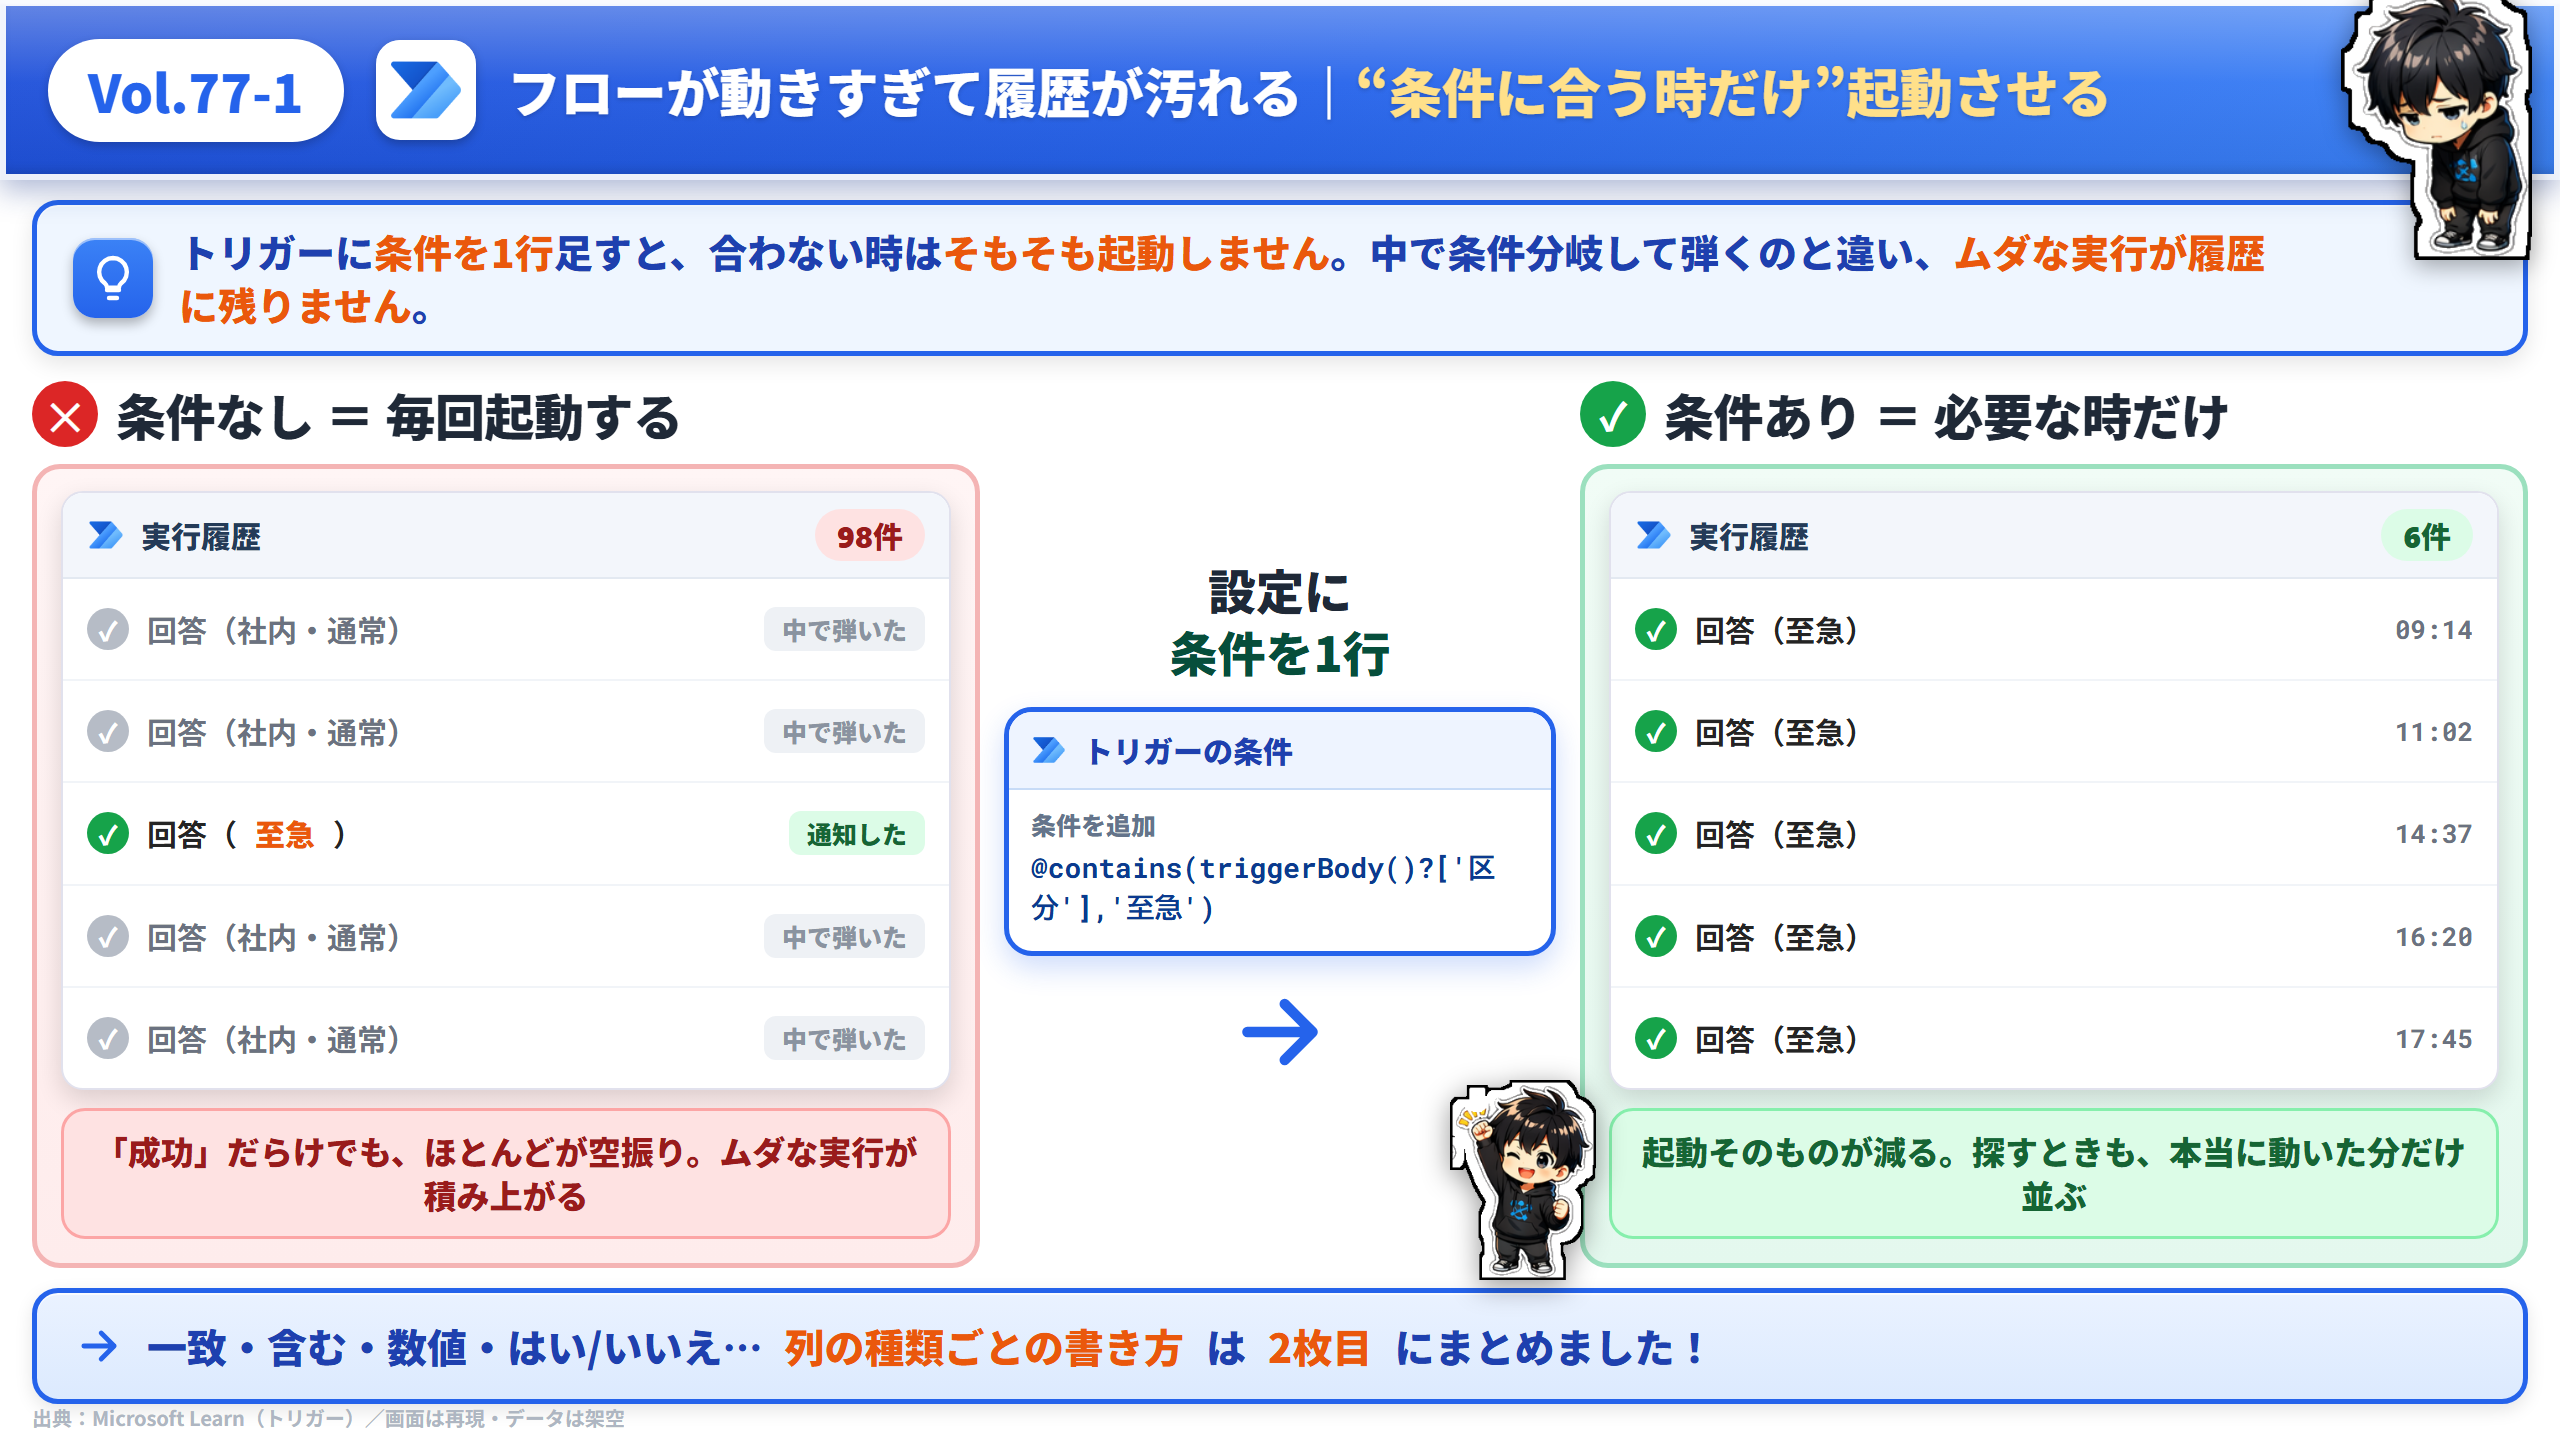
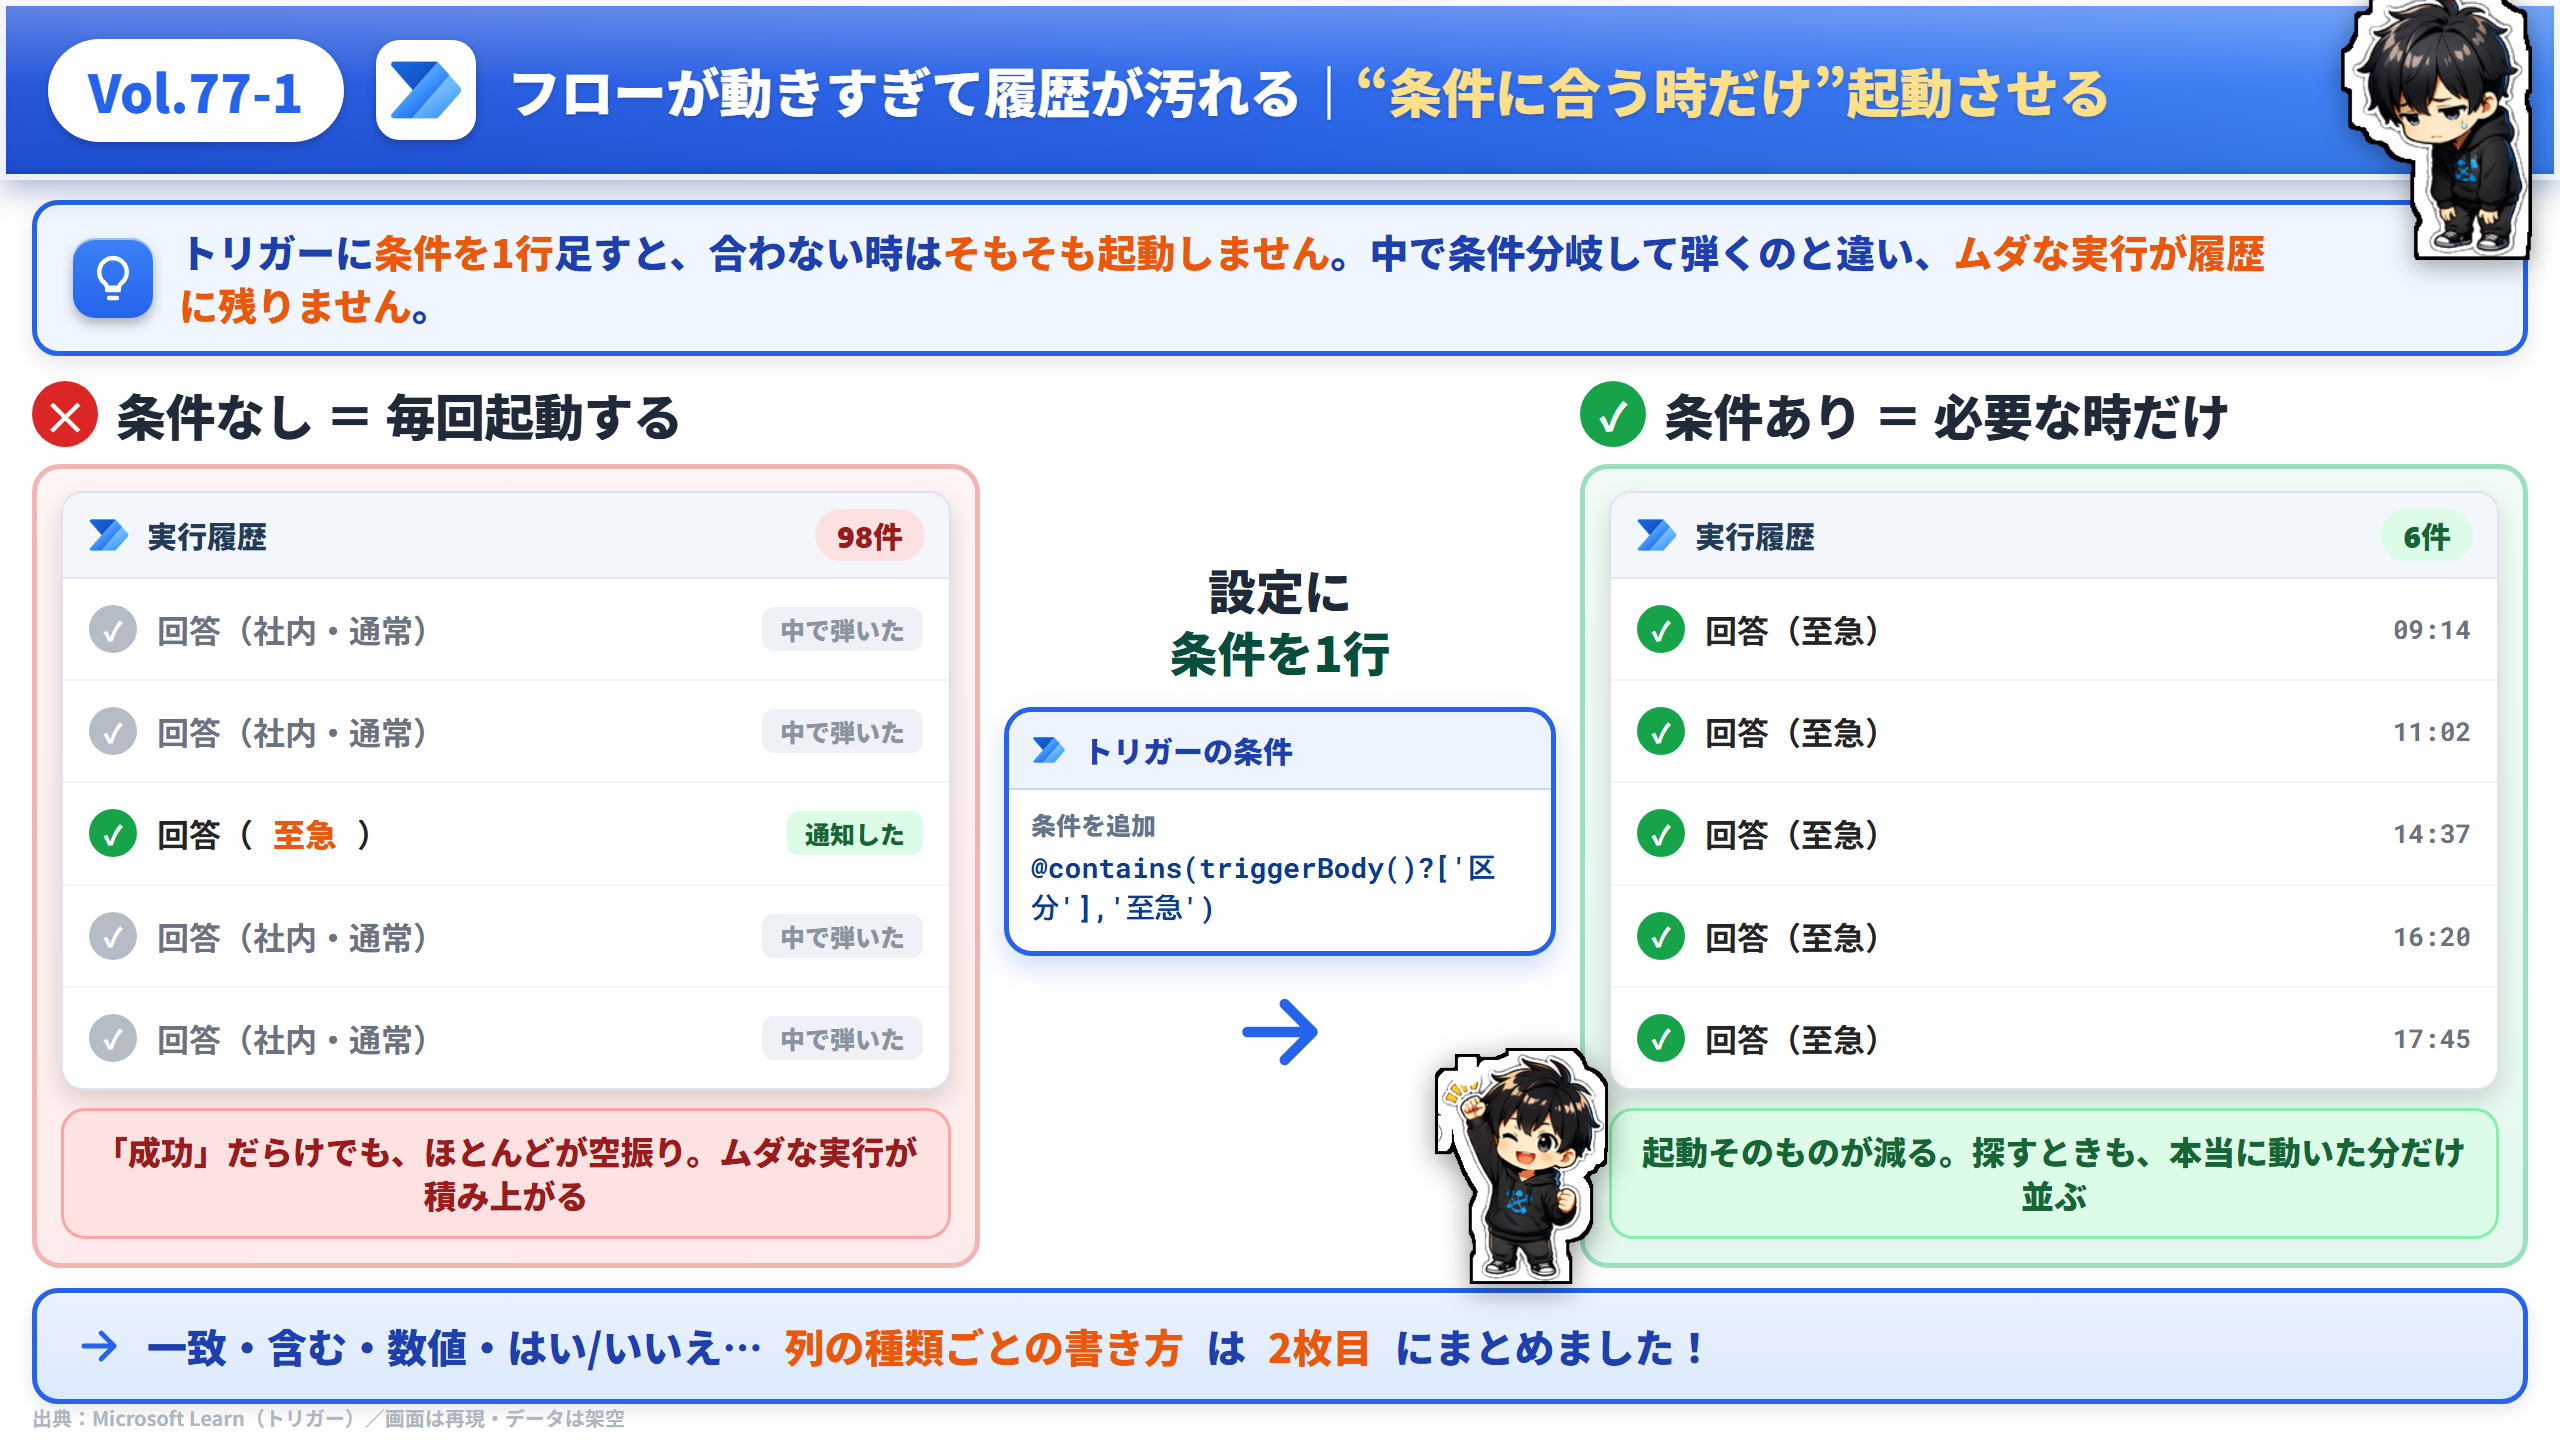
Vol.77 のマスコット/アイコンを品質基準まで拡大
- 1枚目＝中央マスコット 100→118px、実行履歴のアイコン19→22px・文字15→16px
- 2枚目＝マスコットが無く右カラムが寂しかったので ANDカードに guts 114px を追加

diff --git a/assets/x/html/vol-77/index.html b/assets/x/html/vol-77/index.html
@@ -44,14 +44,14 @@
   /* 実行履歴モック */
   .run{flex:1;background:#fff;border:1px solid #E1E1ED;border-radius:11px;box-shadow:0 5px 13px rgba(0,0,0,.14);overflow:hidden;font-family:'Segoe UI','Noto Sans JP',sans-serif;display:flex;flex-direction:column;min-height:0;}
   .run-h{flex:0 0 auto;display:flex;align-items:center;gap:8px;padding:8px 12px;background:#F3F6FB;border-bottom:1px solid #E3E9F1;}
-  .run-h img{width:19px;height:19px;object-fit:contain;}
+  .run-h img{width:22px;height:22px;object-fit:contain;}
   .run-h span{font-weight:800;font-size:15px;color:#243B58;}
   .run-h .cnt{margin-left:auto;font-weight:900;font-size:15px;border-radius:999px;padding:2px 11px;}
   .run-h .cnt.bad{background:#FEE2E2;color:var(--red-dark);}
   .run-h .cnt.good{background:#DCFCE7;color:#166534;}
-  .rrow{flex:1;display:flex;align-items:center;gap:9px;padding:0 12px;border-bottom:1px solid #F1F4F8;min-height:0;font-size:15px;font-weight:700;color:#242424;}
+  .rrow{flex:1;display:flex;align-items:center;gap:10px;padding:0 13px;border-bottom:1px solid #F1F4F8;min-height:0;font-size:16px;font-weight:700;color:#242424;}
   .rrow:last-child{border-bottom:none;}
-  .rrow .mk{flex:0 0 auto;width:21px;height:21px;border-radius:50%;display:flex;align-items:center;justify-content:center;font-weight:900;font-size:13px;color:#fff;}
+  .rrow .mk{flex:0 0 auto;width:24px;height:24px;border-radius:50%;display:flex;align-items:center;justify-content:center;font-weight:900;font-size:13px;color:#fff;}
   .rrow.s .mk{background:var(--green);}
   .rrow.waste{color:var(--weak);}
   .rrow.waste .mk{background:#B6BCC6;}
@@ -74,7 +74,7 @@
   .setbox .sl{font-size:12.5px;font-weight:800;color:#64748B;padding:8px 11px 3px;}
   .setbox .sv{font-family:'Roboto Mono',monospace;font-size:14px;font-weight:700;color:#0B3A8F;padding:0 11px 11px;word-break:break-all;line-height:1.45;}
   .bigarrow{width:56px;height:56px;color:var(--blue);}
-  .mzmascot{position:absolute;right:-8px;bottom:-6px;height:100px;z-index:30;filter:drop-shadow(0 3px 7px rgba(0,0,0,.4));}
+  .mzmascot{position:absolute;right:-14px;bottom:-8px;height:118px;z-index:30;filter:drop-shadow(0 3px 7px rgba(0,0,0,.4));}
 
   .next{flex:0 0 auto;margin:10px 16px 18px;background:linear-gradient(180deg,#EAF2FF,#DCEAFE);border:2.5px solid var(--blue);border-radius:13px;padding:12px 18px;display:flex;align-items:center;gap:11px;font-weight:900;font-size:20px;color:var(--blue-dark);box-shadow:0 3px 9px rgba(0,0,0,.10),inset 0 1px 0 rgba(255,255,255,.7);}
   .next .na{flex:0 0 auto;width:26px;height:26px;color:var(--blue);}

diff --git a/assets/x/html/vol-77b/index.html b/assets/x/html/vol-77b/index.html
@@ -46,7 +46,7 @@
   .q.o{border-left-color:var(--orange);} .q.o .val{color:#9A3412;}
   .q.g{border-left-color:var(--green);} .q.g .val{color:var(--green-dark);}
 
-  .and{flex:1;background:#fff;border:1px solid #D7DEE8;border-radius:12px;box-shadow:0 6px 15px rgba(0,0,0,.14);overflow:hidden;font-family:'Segoe UI','Noto Sans JP',sans-serif;display:flex;flex-direction:column;min-height:0;}
+  .and{flex:1;background:#fff;border:1px solid #D7DEE8;border-radius:12px;box-shadow:0 6px 15px rgba(0,0,0,.14);overflow:visible;font-family:'Segoe UI','Noto Sans JP',sans-serif;display:flex;flex-direction:column;min-height:0;position:relative;}
   .and-h{flex:0 0 auto;display:flex;align-items:center;gap:9px;padding:9px 12px;background:#F3F6FB;border-bottom:1px solid #E3E9F1;}
   .and-h img{width:19px;height:19px;object-fit:contain;}
   .and-h span{font-weight:900;font-size:15.5px;color:#243B58;}
@@ -61,6 +61,7 @@
   .warn .wt{flex:0 0 auto;font-weight:900;font-size:17px;color:#9A3412;}
   .warn .wl{display:flex;gap:20px;flex-wrap:wrap;font-size:16px;font-weight:800;color:#7C2D12;line-height:1.35;}
   .warn code{font-family:'Roboto Mono',monospace;font-size:15px;background:#fff;border:1px solid #FDBA74;border-radius:5px;padding:1px 6px;}
+  .amascot{position:absolute;right:-12px;bottom:-10px;height:114px;z-index:30;filter:drop-shadow(0 3px 7px rgba(0,0,0,.4));}
   .src{position:absolute;left:16px;bottom:4px;font-size:10px;color:#AEB6C2;font-weight:700;z-index:3;}
 </style>
 </head>
@@ -108,7 +109,8 @@ document.getElementById('slide').innerHTML=`
           <div class="cline"><span class="no">1</span>@equals(...,'外部')</div>
           <div class="cline"><span class="no">2</span>@greaterOrEquals(...,100000)</div>
           <span class="andtag">両方そろって起動（AND）</span>
-          <div class="andnote">条件を<b>複数行に分けて足す</b>と、<b>全部を満たしたときだけ</b>フローが動きます。1行に and を詰めなくてOK。</div>
+          <div class="andnote" style="padding-right:84px">条件を<b>複数行に分けて足す</b>と、<b>全部を満たしたときだけ</b>フローが動きます。1行に and を詰めなくてOK。</div>
+        <img class="amascot" src="${A}chara/chara_guts.png" alt="">
         </div>
       </div>
     </div>
